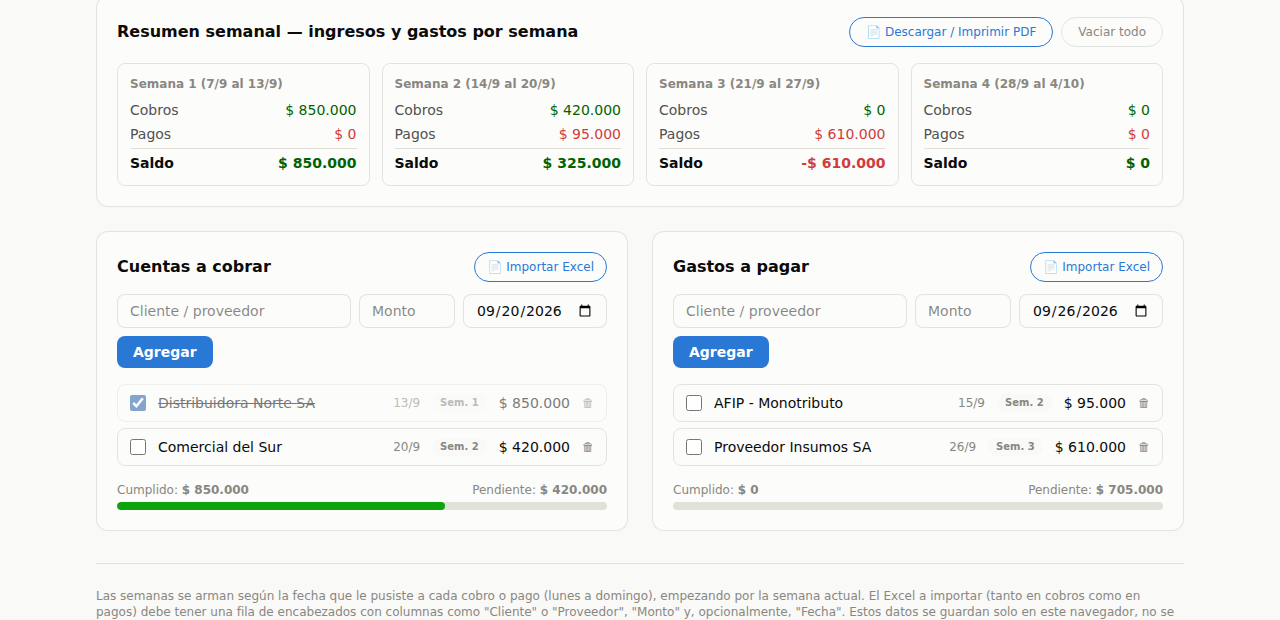
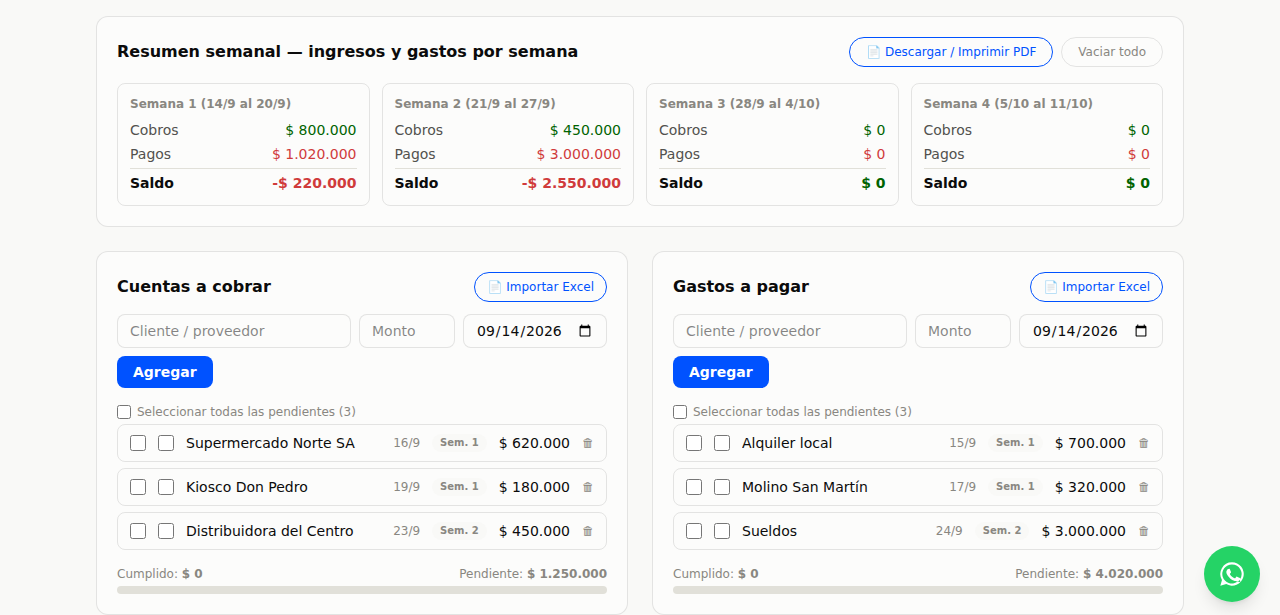
Actualizar landing page con las novedades de la sesión
Renueva capturas de pantalla (dashboard, cobranzas, comprobantes,
presupuesto vs. real) y reescribe las listas de funcionalidades de
ambos planes para reflejar Comprobantes, IVA/IIBB, patrimonio y
runway extendido. Suma la prueba gratis de 15 días al hero y al CTA
final, ausente hasta ahora en la landing.

Claude-Session: https://claude.ai/code/session_01JDKKKrywDPhQqtJKhmkmAv

diff --git a/src/pages/HomePage.tsx b/src/pages/HomePage.tsx
@@ -2,18 +2,21 @@ import { Link } from 'react-router-dom'
 import { buildWhatsAppLink } from '../components/WhatsAppContact'
 
 const FEATURES_BASICO = [
+  { icon: '📆', titulo: 'Ingresos y gastos diarios', texto: 'Cargá tus ventas con el medio de cobro (efectivo, transferencia, QR, débito, crédito) y tus gastos día a día.' },
   { icon: '🏦', titulo: 'Cuentas bancarias y deudas', texto: 'Cargá el saldo de cada cuenta y tus deudas pendientes, con un indicador de endeudamiento.' },
-  { icon: '📊', titulo: 'Indicadores clave', texto: 'Margen operativo, runway de caja, punto de equilibrio y endeudamiento, con semáforo.' },
+  { icon: '📊', titulo: 'Indicadores clave', texto: 'Margen operativo, runway de caja, punto de equilibrio y endeudamiento, con semáforo y explicación de cada uno.' },
   { icon: '💰', titulo: 'Flujo de caja proyectado', texto: 'Proyección de tu saldo mes a mes, con alerta si te vas a quedar sin caja.' },
   { icon: '📅', titulo: 'Cobranzas y pagos semanales', texto: 'Organizá qué cobrás y pagás cada una de las próximas 4 semanas, con progreso.' },
-  { icon: '📄', titulo: 'Excel y PDF', texto: 'Importá tus cuentas a cobrar desde Excel y descargá tu informe financiero en PDF.' },
+  { icon: '📄', titulo: 'Informe y Excel', texto: 'Importá tus cuentas a cobrar desde Excel y descargá un informe financiero con gráficos, listo para imprimir.' },
 ]
 
 const FEATURES_PREMIUM = [
-  { icon: '🎯', titulo: 'Presupuesto vs. Real', texto: 'Comparás lo presupuestado contra lo que realmente gastaste, con el desvío por categoría.' },
-  { icon: '📈', titulo: 'Proyección con crecimiento', texto: 'Sumá una tasa de crecimiento mensual esperada a la proyección de caja, no solo lineal.' },
-  { icon: '🔔', titulo: 'Alertas automáticas', texto: 'Avisos si tu caja se agota, una deuda está por vencer, o tu margen se pone negativo.' },
-  { icon: '🧾', titulo: 'Salud financiera con comprobantes', texto: 'Importá tus facturas desde ARCA y mirá ventas, compras, margen y tus principales clientes y proveedores.' },
+  { icon: '🧾', titulo: 'Comprobantes', texto: 'Importá tus facturas desde ARCA y mirá ventas, compras, margen y tus principales clientes y proveedores.' },
+  { icon: '🎯', titulo: 'Presupuesto vs. Real', texto: 'Comparás lo presupuestado contra lo que realmente gastaste, con el desvío por categoría y comentarios automáticos.' },
+  { icon: '📈', titulo: 'Proyección con escenarios', texto: 'Sumá una tasa de crecimiento mensual esperada, con escenarios optimista y pesimista, no solo lineal.' },
+  { icon: '🔔', titulo: 'Alertas y recomendaciones', texto: 'Avisos si tu caja se agota, una deuda está por vencer, o tu margen se pone negativo, con qué hacer al respecto.' },
+  { icon: '🧮', titulo: 'IVA e Ingresos Brutos', texto: 'Posición de IVA e Ingresos Brutos mes a mes, con alícuota y retenciones editables para que cuadre con lo declarado en ARCA.' },
+  { icon: '🏛', titulo: 'Patrimonio y bienes', texto: 'Sumá tus bienes realizables (inversiones, inmuebles, vehículos) y mirá tu runway extendido ante un quiebre de caja.' },
 ]
 
 export function HomePage() {
@@ -30,8 +33,14 @@ export function HomePage() {
         </h1>
         <p className="mx-auto mt-4 max-w-2xl text-base" style={{ color: 'var(--text-secondary)' }}>
           Comparás préstamos de los principales bancos argentinos y gestionás las finanzas de tu empresa —
-          cuentas, deudas, flujo de caja y cobranzas — todo en un solo lugar, con asesoramiento de un
-          Contador Público.
+          cuentas, deudas, flujo de caja, cobranzas, IVA y mucho más — todo en un solo lugar, con
+          explicaciones simples de cada indicador.
+        </p>
+        <p
+          className="mx-auto mt-4 inline-block max-w-xl rounded-full px-4 py-2 text-sm font-semibold"
+          style={{ background: 'color-mix(in srgb, var(--status-good-text) 12%, transparent)', color: 'var(--status-good-text)' }}
+        >
+          🎁 Probá FinCorp para empresas 15 días gratis, sin tarjeta
         </p>
       </div>
 
@@ -69,14 +78,14 @@ export function HomePage() {
             entender la salud financiera de tu empresa, sin ser financista.
           </p>
           <p className="mt-2 text-xs font-medium" style={{ color: 'var(--series-blue)' }}>
-            Dos planes pagos — mirá qué incluye cada uno más abajo
+            15 días gratis y después elegís tu plan — mirá qué incluye cada uno más abajo
           </p>
           <Link
             to="/empresas"
             className="mt-4 inline-block rounded-full border px-5 py-2 text-sm font-semibold transition-opacity hover:opacity-90"
             style={{ borderColor: 'var(--series-blue)', color: 'var(--series-blue)' }}
           >
-            Ver Para empresas →
+            Empezar prueba gratis →
           </Link>
         </div>
       </section>
@@ -154,7 +163,7 @@ export function HomePage() {
         </p>
       </section>
 
-      <section className="mb-8 grid grid-cols-1 gap-4 sm:grid-cols-2">
+      <section className="mb-8 grid grid-cols-1 gap-4 sm:grid-cols-2 lg:grid-cols-3">
         {FEATURES_PREMIUM.map((f) => (
           <div
             key={f.titulo}
@@ -174,19 +183,19 @@ export function HomePage() {
 
       <section className="mb-6">
         <p className="mb-2 text-center text-sm font-medium" style={{ color: 'var(--text-muted)' }}>
-          Presupuesto vs. Real, con desvío por categoría
+          Comprobantes: ventas, compras, margen e IVA
         </p>
         <div className="overflow-hidden rounded-xl border shadow-sm" style={{ borderColor: 'var(--border)' }}>
-          <img src="/landing-presupuesto-real.png" alt="Presupuesto vs Real en FinCorp Premium" className="w-full" />
+          <img src="/landing-comprobantes.png" alt="Comprobantes en FinCorp Premium: indicadores de cobro y pago, ventas y compras netas por mes" className="w-full" />
         </div>
       </section>
 
       <section className="mb-16">
         <p className="mb-2 text-center text-sm font-medium" style={{ color: 'var(--text-muted)' }}>
-          Salud financiera a partir de tus comprobantes (ARCA)
+          Presupuesto vs. Real, con desvío por categoría
         </p>
         <div className="overflow-hidden rounded-xl border shadow-sm" style={{ borderColor: 'var(--border)' }}>
-          <img src="/landing-salud-financiera.png" alt="Salud financiera con comprobantes en FinCorp Premium" className="w-full" />
+          <img src="/landing-presupuesto-real.png" alt="Presupuesto vs Real en FinCorp Premium" className="w-full" />
         </div>
       </section>
 
@@ -198,8 +207,8 @@ export function HomePage() {
           ¿Listo para ordenar las finanzas de tu negocio?
         </h2>
         <p className="mx-auto mt-2 max-w-xl text-sm" style={{ color: 'var(--text-secondary)' }}>
-          Escribime por WhatsApp y te cuento cuál de los planes de FinCorp para empresas se ajusta mejor a tu
-          negocio.
+          Empezá con 15 días gratis y acceso Premium completo, sin tarjeta. Si preferís hablar antes,
+          escribime por WhatsApp y te cuento cuál de los planes se ajusta mejor a tu negocio.
         </p>
         <div className="mt-4 flex flex-wrap items-center justify-center gap-3">
           <Link
@@ -207,7 +216,7 @@ export function HomePage() {
             className="inline-block rounded-full px-6 py-2.5 text-sm font-semibold text-white transition-opacity hover:opacity-90"
             style={{ background: 'var(--series-blue)' }}
           >
-            Ver planes y empezar
+            Empezar prueba gratis de 15 días
           </Link>
           <a
             href={buildWhatsAppLink(mensajeWhatsApp)}
